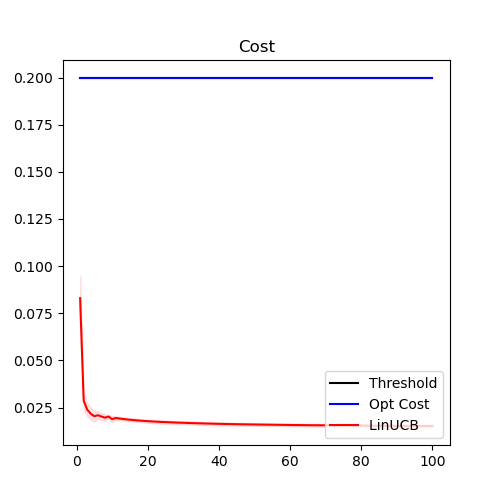
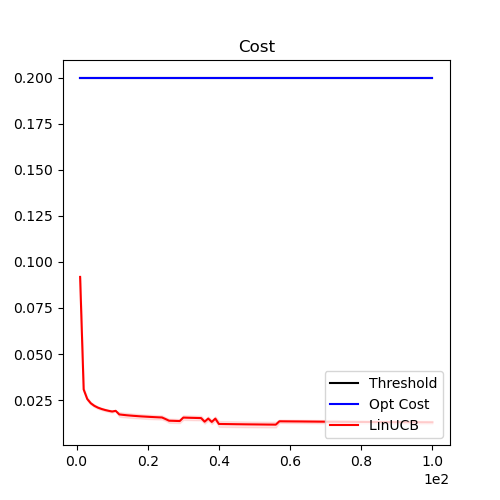
asldfkm

diff --git a/linear_constrained_bandits.py b/linear_constrained_bandits.py
@@ -4,6 +4,8 @@ import IPython
 import numpy as np
 from math import log, exp
 import matplotlib.pyplot as plt
+import matplotlib.ticker as mtick
+
 from utilities_linear import LinearBandit, LinUCB
 
 
@@ -40,7 +42,7 @@ def strided_method(ar):
 
 
 num_repetitions = 3
-T = 100
+T = 1000000
 d = 10
 theta = np.arange(d)
 theta = theta/np.max(theta)
@@ -51,102 +53,113 @@ A_0 = strided_method(np.arange(d))#np.eye(10)
 lam = .1
 nm_ini = 0
 
-tau = .2
+
+
+for tau in [.2,.5,.8,1 ]:
 
 
 
 
-linucb_regrets = [run_linucb_sweep_experiment.remote(T, theta, mu, tau, err_var, A_0, lam, nm_ini) for _ in range(num_repetitions) ]
-linucb_regrets = ray.get(linucb_regrets)
-#linucb_regrets = [run_linucb_sweep_experiment(T, theta, mu, tau, err_var, A_0, lam, nm_ini) for _ in range(num_repetitions) ]
+	linucb_regrets = [run_linucb_sweep_experiment.remote(T, theta, mu, tau, err_var, A_0, lam, nm_ini) for _ in range(num_repetitions) ]
+	linucb_regrets = ray.get(linucb_regrets)
+	#linucb_regrets = [run_linucb_sweep_experiment(T, theta, mu, tau, err_var, A_0, lam, nm_ini) for _ in range(num_repetitions) ]
 
-opt_reward = linucb_regrets[0][3]
-opt_cost = linucb_regrets[0][4]
-
-
-
-### REGRET
-reg_summary = np.zeros((num_repetitions, T))
-for j in range(num_repetitions):
-		reg_summary[j, :] = linucb_regrets[j][0]
-
-
-#print([np.sum(reg) for reg in ray.get(cor_regrets) ])
-mean_regret = np.mean(reg_summary, axis = 0)
-std_regret = np.std(reg_summary, axis = 0)
+	opt_reward = linucb_regrets[0][3]
+	opt_cost = linucb_regrets[0][4]
 
 
 
-
-### COST
-cost_summary = np.zeros((num_repetitions, T))
-for j in range(num_repetitions):
-		cost_summary[j, :] = linucb_regrets[j][1]
-
-#print([np.sum(reg) for reg in ray.get(cor_regrets) ])
-mean_cost = np.mean(cost_summary, axis = 0)
-std_cost = np.std(cost_summary, axis = 0)
+	### REGRET
+	reg_summary = np.zeros((num_repetitions, T))
+	for j in range(num_repetitions):
+			reg_summary[j, :] = linucb_regrets[j][0]
 
 
-### REWARD
-reward_summary = np.zeros((num_repetitions, T))
-for j in range(num_repetitions):
-		reward_summary[j, :] = linucb_regrets[j][2]
-
-mean_reward = np.mean(reward_summary, axis = 0)
-std_reward = np.std(reward_summary, axis = 0)
+	#print([np.sum(reg) for reg in ray.get(cor_regrets) ])
+	mean_regret = np.mean(reg_summary, axis = 0)
+	std_regret = np.std(reg_summary, axis = 0)
 
 
 
-font = {#'family' : 'normal',
-        #'weight' : 'bold',
-        'size'   : 16}
+
+	### COST
+	cost_summary = np.zeros((num_repetitions, T))
+	for j in range(num_repetitions):
+			cost_summary[j, :] = linucb_regrets[j][1]
+
+	#print([np.sum(reg) for reg in ray.get(cor_regrets) ])
+	mean_cost = np.mean(cost_summary, axis = 0)
+	std_cost = np.std(cost_summary, axis = 0)
 
 
-#print("alskdmfalskdmfalskdfmaslkdmfalsdkmfalskdfm ")
-#IPython.embed()
-timesteps = np.arange(T) + 1
-#IPython.embed()
-plt.figure(figsize=(5,5))
+	### REWARD
+	reward_summary = np.zeros((num_repetitions, T))
+	for j in range(num_repetitions):
+			reward_summary[j, :] = linucb_regrets[j][2]
 
-plt.title("Regret")
-plt.plot(timesteps, mean_regret, label = "LinUCB ", color = "red")
-plt.fill_between(timesteps, mean_regret - .5*std_regret, mean_regret + .5*std_regret, color = "red", alpha = .1 )
-
-#IPython.embed()
-#plt.figure(figsize=(40,20))
-plt.legend(loc="lower right")
-plt.savefig("./linear_plots/Linear_Regret_{}.png".format(tau))
-# ####################
-#print("asldkfmaslkdfmasldkfmasldkmfalskdmfalskdmfalskdfm")
+	mean_reward = np.mean(reward_summary, axis = 0)
+	std_reward = np.std(reward_summary, axis = 0)
 
 
-plt.figure(figsize=(5,5))
 
-plt.title("Cost")
-plt.plot(timesteps, [tau]*T, label = "Threshold", color = "black")
-plt.plot(timesteps, [opt_cost]*T, label = "Opt Cost", color = "blue")
-plt.plot(timesteps, mean_cost, label = "LinUCB ", color = "red")
-plt.fill_between(timesteps, mean_cost - .5*std_cost, mean_cost + .5*std_cost, color = "red", alpha = .1 )
+	font = {#'family' : 'normal',
+	        #'weight' : 'bold',
+	        'size'   : 16}
 
-#IPython.embed()
-#plt.figure(figsize=(40,20))
-plt.legend(loc="lower right")
-plt.savefig("./linear_plots/Linear_Cost_{}.png".format(tau))
-# ####################
-plt.figure(figsize=(5,5))
 
-plt.title("Reward")
-plt.plot(timesteps, [opt_reward]*T, label = "Opt Reward", color = "blue")
-plt.plot(timesteps, mean_reward, label = "LinUCB ", color = "red")
-plt.fill_between(timesteps, mean_reward - .5*std_reward, mean_reward + .5*std_reward, color = "red", alpha = .1 )
-plt.legend(loc="lower right")
-plt.savefig("./linear_plots/Linear_Reward_{}.png".format(tau))
-# ####################
+	#print("alskdmfalskdmfalskdfmaslkdmfalsdkmfalskdfm ")
+	#IPython.embed()
+	timesteps = np.arange(T) + 1
+	#IPython.embed()
+	plt.figure(figsize=(5,5))
 
-import pickle
+	plt.title("Regret")
+	plt.plot(timesteps, mean_regret, label = "LinUCB ", color = "red")
+	plt.fill_between(timesteps, mean_regret - .5*std_regret, mean_regret + .5*std_regret, color = "red", alpha = .1 )
+	#plt.axes().xaxis.set_major_formatter(mtick.FormatStrFormatter('%.2e'))
+	plt.ticklabel_format(axis="x", style="sci", scilimits=(0,0))
 
-pickle.dump((timesteps, mean_regret, std_regret, mean_cost, std_cost, mean_reward, std_reward, tau, opt_cost, opt_reward, T), open("./linear_plots/data_linear_{}.p".format(tau), "wb"))
+	#IPython.embed()
+	#plt.figure(figsize=(40,20))
+	plt.legend(loc="lower right")
+	plt.savefig("./linear_plots/Linear_Regret_{}.png".format(tau))
+	# ####################
+	#print("asldkfmaslkdfmasldkfmasldkmfalskdmfalskdmfalskdfm")
+
+
+	plt.figure(figsize=(5,5))
+
+	plt.title("Cost")
+	plt.plot(timesteps, [tau]*T, label = "Threshold", color = "black")
+	plt.plot(timesteps, [opt_cost]*T, label = "Opt Cost", color = "blue")
+	plt.plot(timesteps, mean_cost, label = "LinUCB ", color = "red")
+
+	plt.fill_between(timesteps, mean_cost - .5*std_cost, mean_cost + .5*std_cost, color = "red", alpha = .1 )
+	#plt.axes().xaxis.set_major_formatter(mtick.FormatStrFormatter('%.2e'))
+	plt.ticklabel_format(axis="x", style="sci", scilimits=(0,0))
+
+
+	#IPython.embed()
+	#plt.figure(figsize=(40,20))
+	plt.legend(loc="lower right")
+	plt.savefig("./linear_plots/Linear_Cost_{}.png".format(tau))
+	# ####################
+	plt.figure(figsize=(5,5))
+
+	plt.title("Reward")
+	plt.plot(timesteps, [opt_reward]*T, label = "Opt Reward", color = "blue")
+	plt.plot(timesteps, mean_reward, label = "LinUCB ", color = "red")
+	plt.fill_between(timesteps, mean_reward - .5*std_reward, mean_reward + .5*std_reward, color = "red", alpha = .1 )
+	#plt.axes().xaxis.set_major_formatter(mtick.FormatStrFormatter('%.2e'))
+	plt.ticklabel_format(axis="x", style="sci", scilimits=(0,0))
+
+	plt.legend(loc="lower right")
+	plt.savefig("./linear_plots/Linear_Reward_{}.png".format(tau))
+	# ####################
+
+	import pickle
+
+	pickle.dump((timesteps, mean_regret, std_regret, mean_cost, std_cost, mean_reward, std_reward, tau, opt_cost, opt_reward, T), open("./linear_plots/data_linear_{}.p".format(tau), "wb"))
 
 
 
